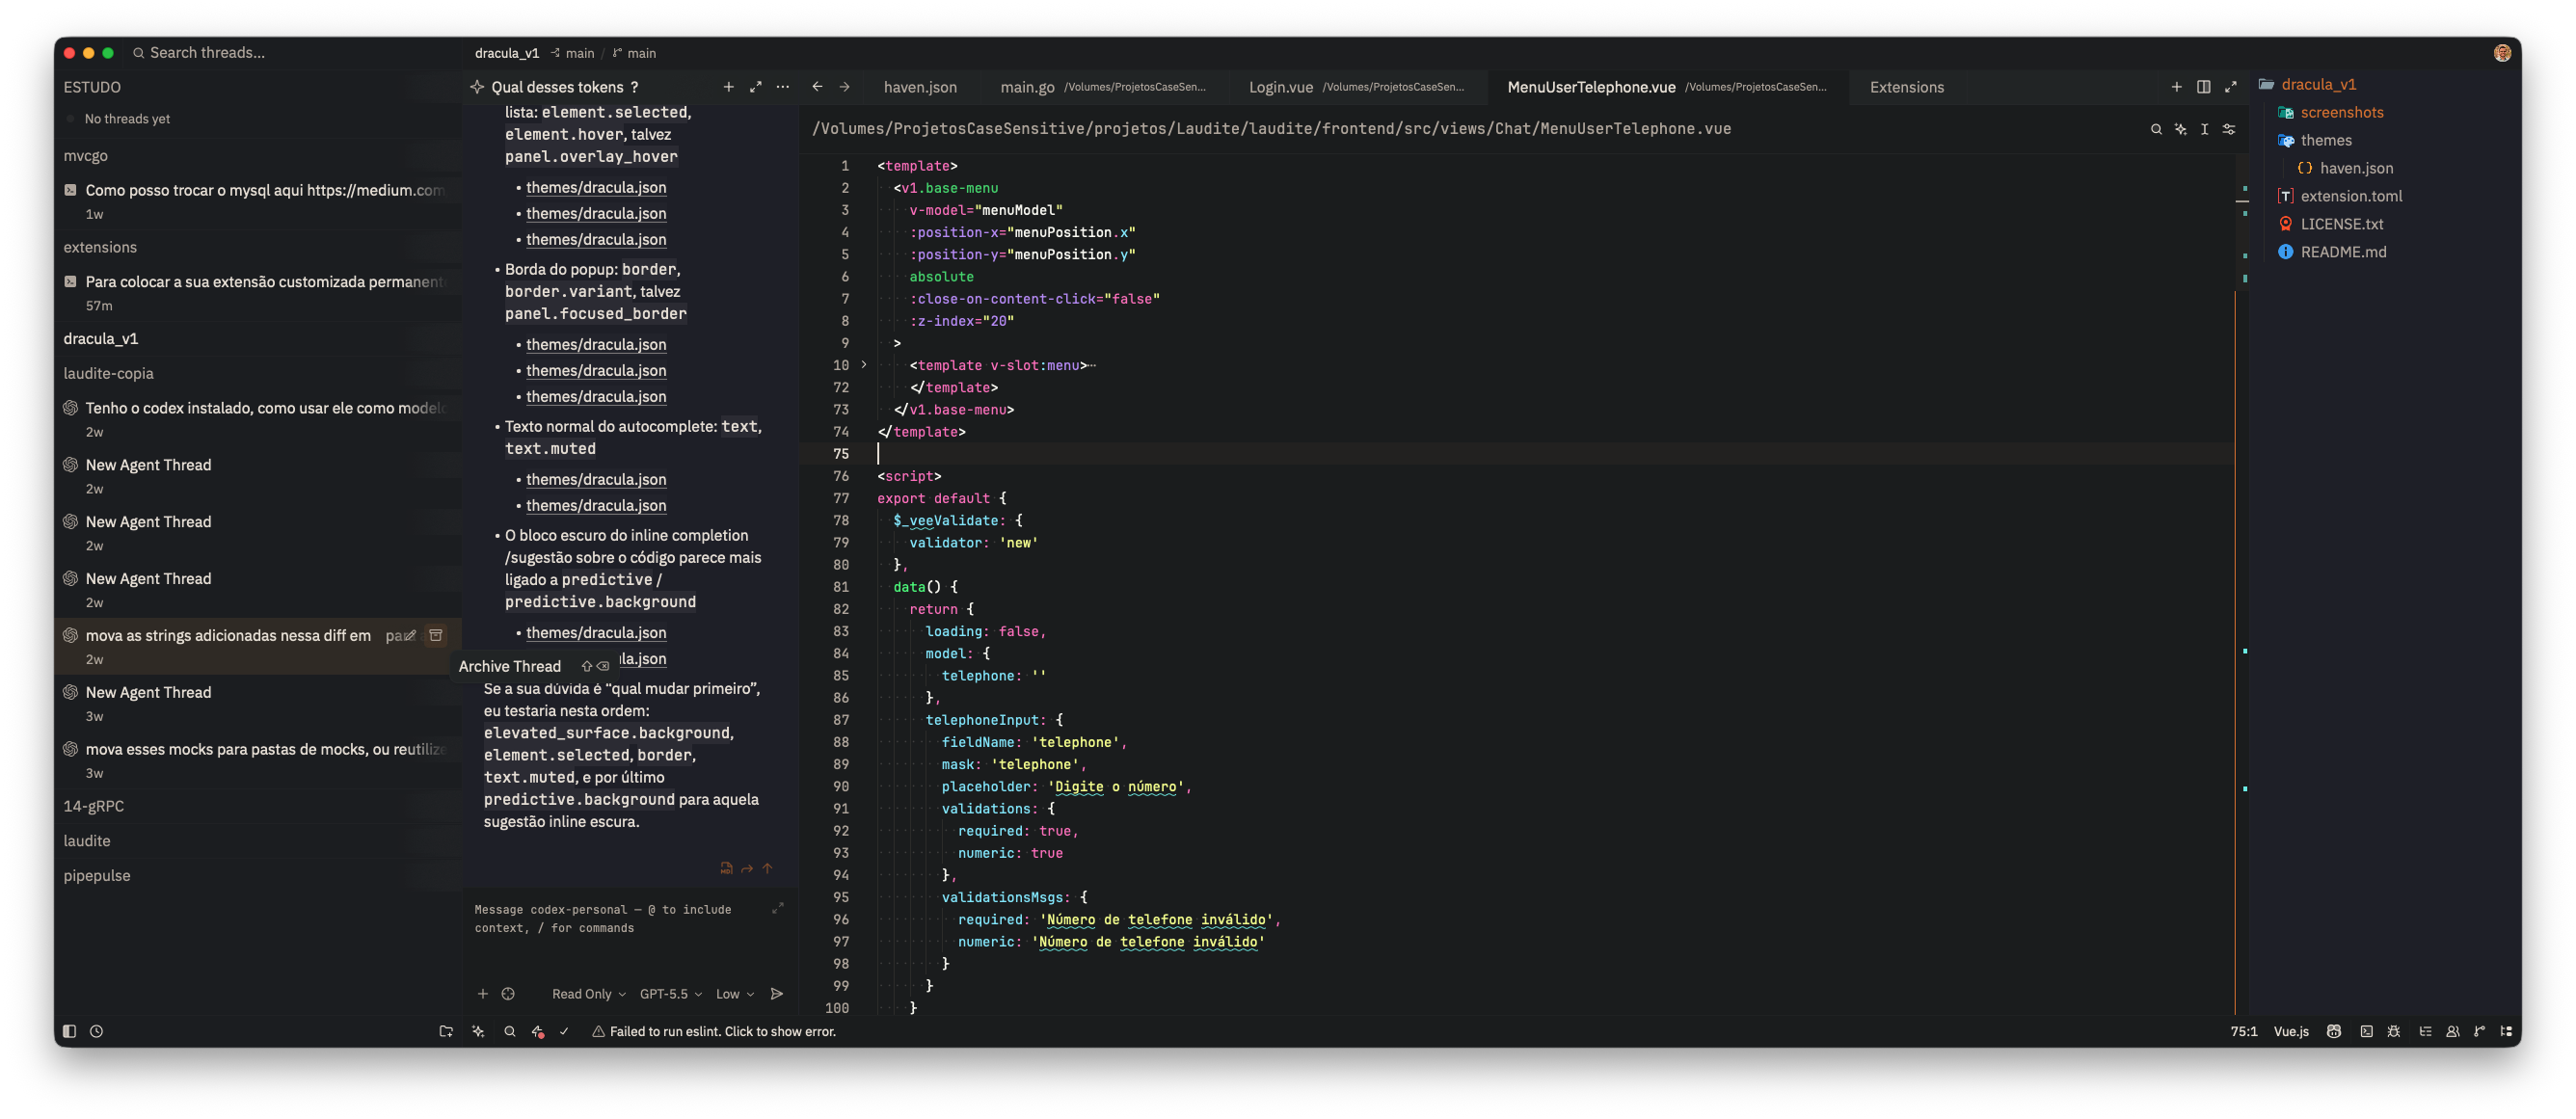
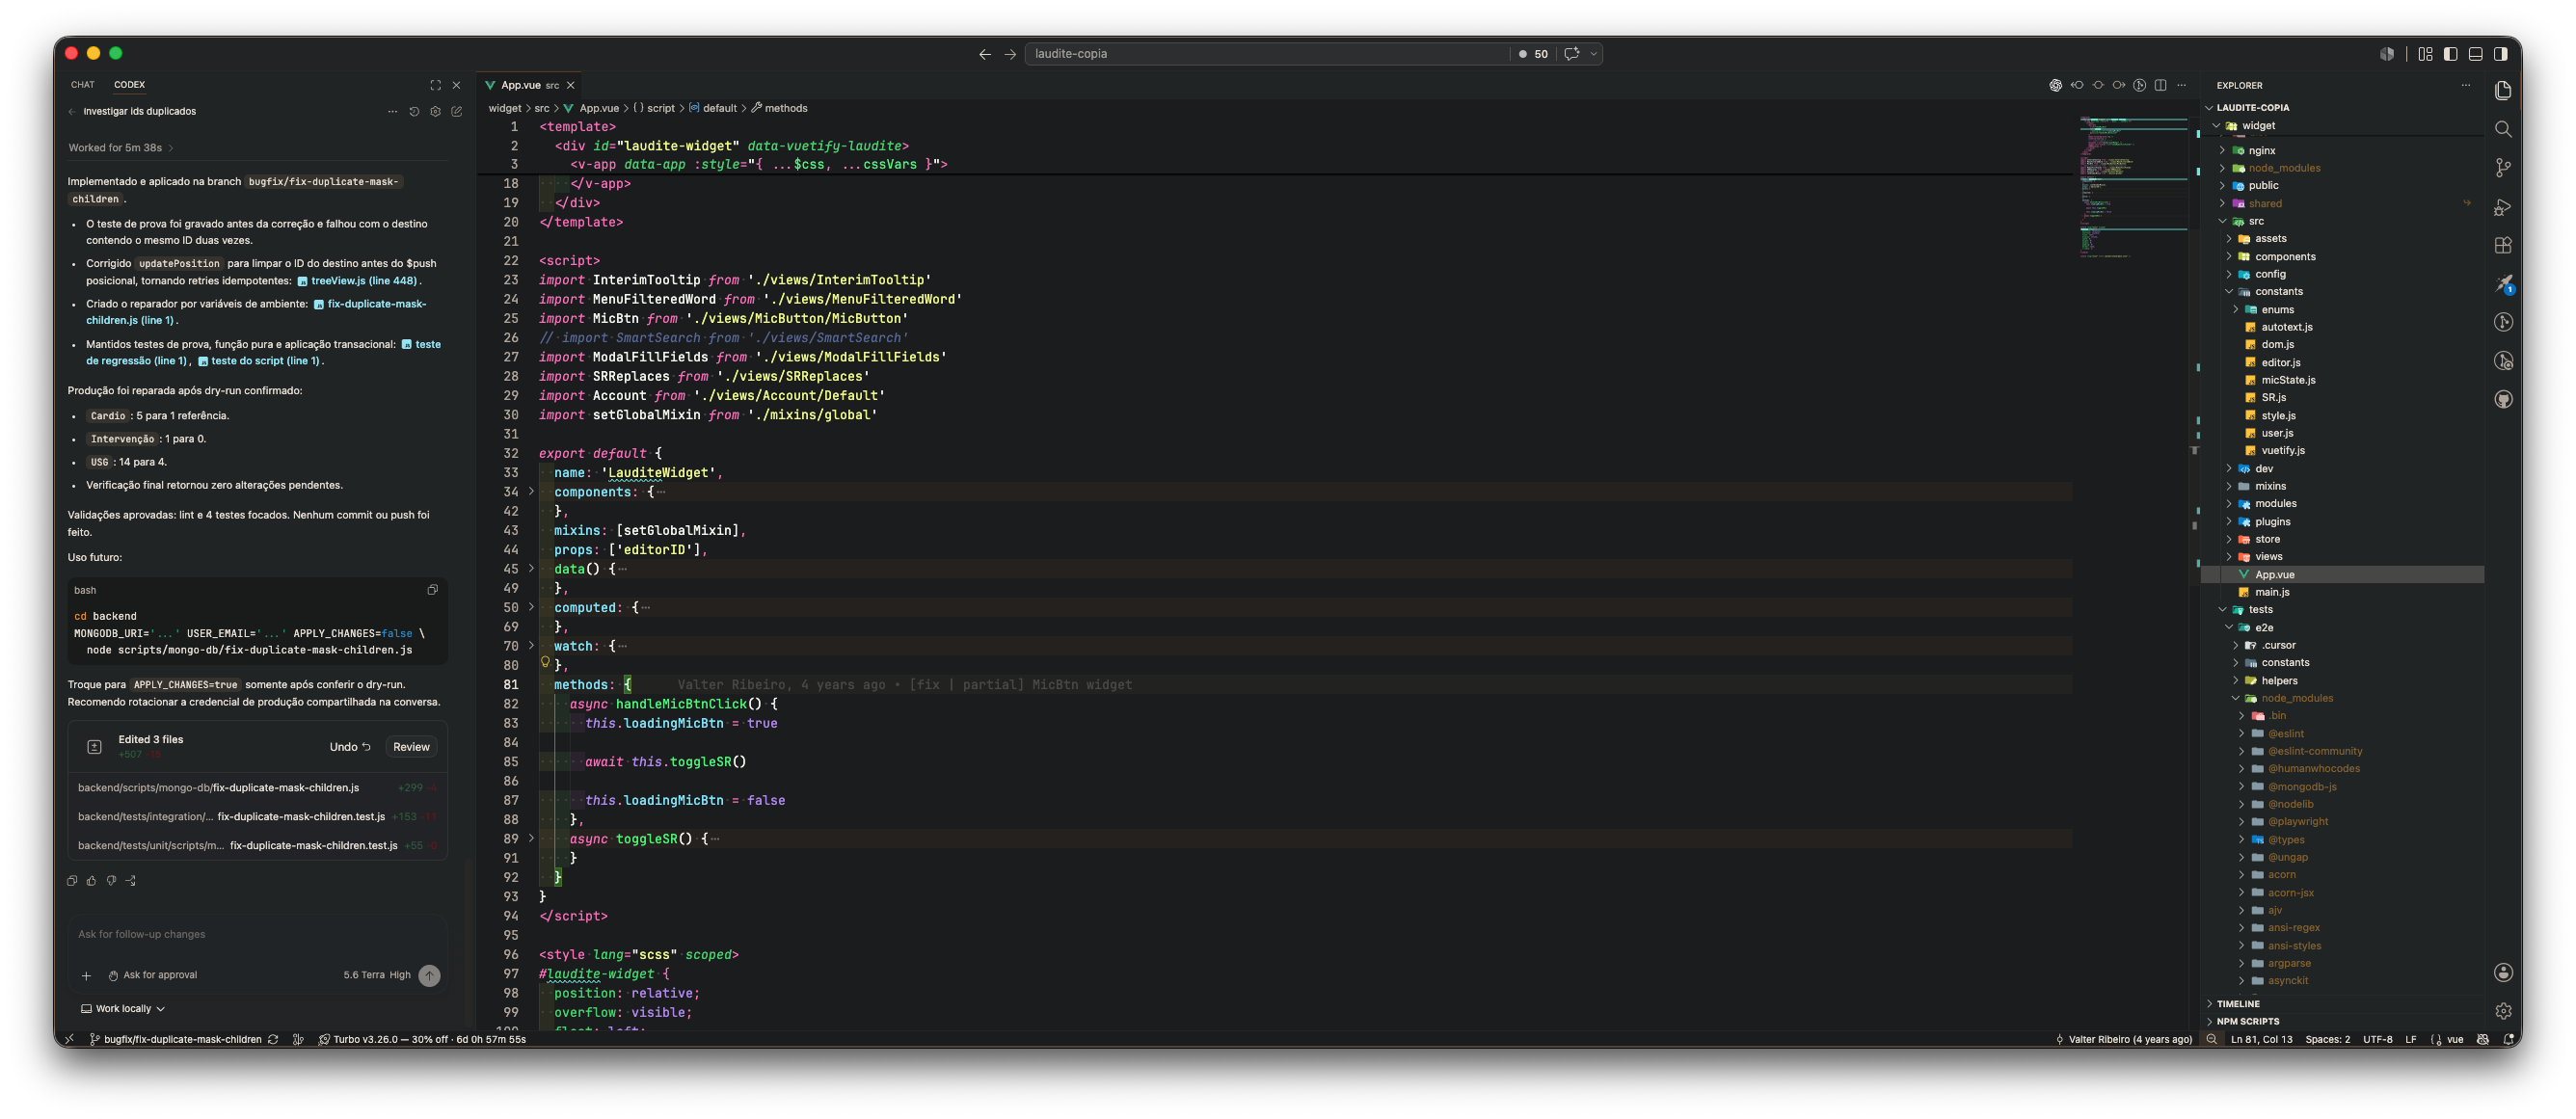
chore(release): Bump version to 0.14.0

Changed region(s): [[0.0, 0.031, 0.994, 0.9612], [0.3417, 0.5581, 0.497, 0.8682], [0.3417, 0.4341, 0.4038, 0.4961]]

diff --git a/CHANGELOG.md b/CHANGELOG.md
@@ -1,5 +1,15 @@
 # Changelog
 
+## 0.14.0
+
+- Refreshed the published screenshots for the current Haven preview.
+- Bumped the extension release package to the latest tagged version.
+
+## 0.13.0
+
+- Refined diff editor colors for added and removed lines.
+- Updated Git decoration colors to better match the current Haven palette.
+
 ## 0.12.0
 
 - Added automatic light and dark theme switching guidance to the README.